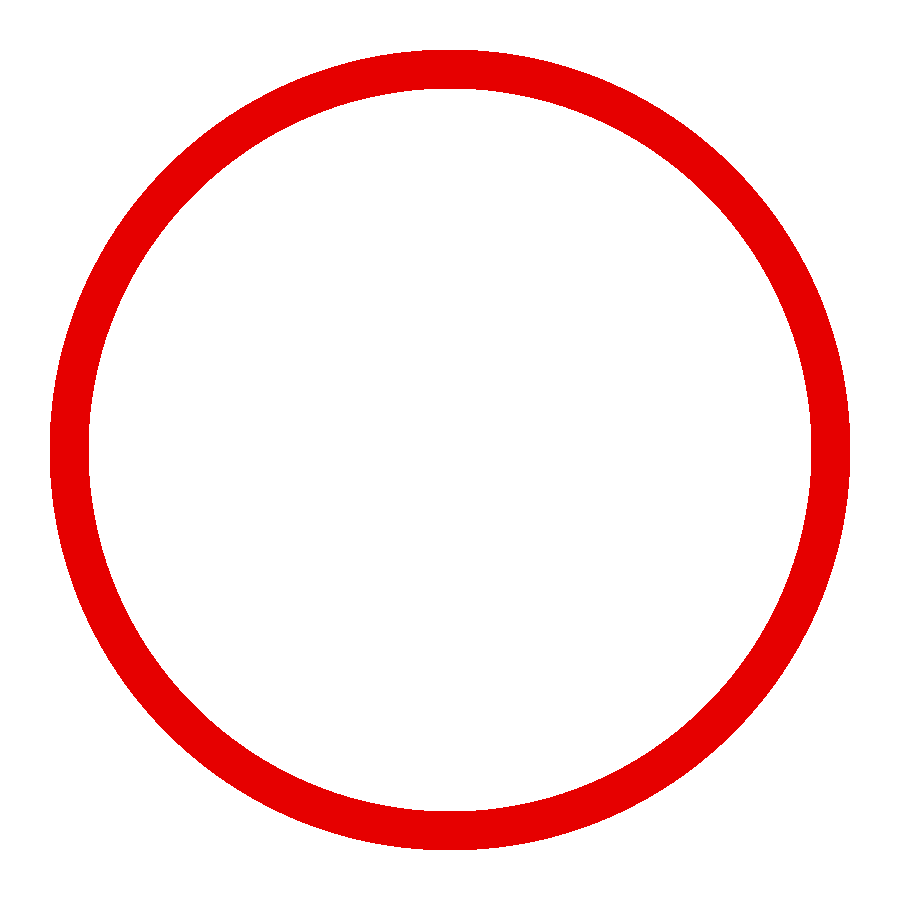
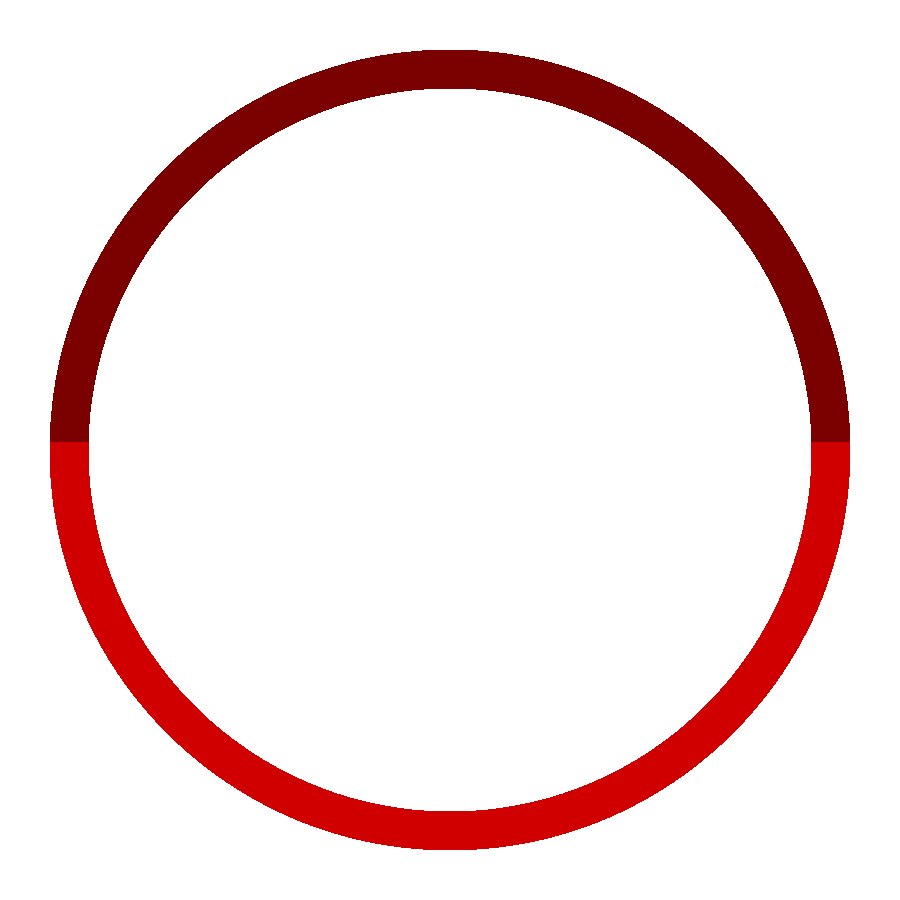
test

Changed region(s): [[0.0311, 0.0311, 0.9644, 0.4978]]

diff --git a/index.html b/index.html
@@ -27,11 +27,22 @@
             }
 
             #redcircle-x {
+                backface-visibility: hidden;
                 position: absolute;
                 background: url(redcircle.png) no-repeat;
                 background-size: 100% 100%;
                 width: 100%;
                 height: 100%;
+            }
+
+            #redcircle-backface {
+                backface-visibility: hidden;
+                position: absolute;
+                background: url(redcircle-backface.png) no-repeat;
+                background-size: 100% 100%;
+                width: 100%;
+                height: 100%;
+                transform: rotateY(180deg);
             }
 
             #data {
@@ -45,6 +56,7 @@
 
         </style>
         <script src="https://richtr.github.io/doe/doe.js"></script>
+
 <script src="https://code.jquery.com/jquery-2.2.4.min.js"
         integrity="sha256-BbhdlvQf/xTY9gja0Dq3HiwQF8LaCRTXxZKRutelT44="
         crossorigin="anonymous"></script>
@@ -57,35 +69,32 @@
                 <div id="redcircle-y">
                     <div id="redcircle-x">
                     </div>
+                    <div id="redcircle-backface">
+                    </div>
                 </div>
             </div>
             <div id="data">
-                <span>gamma</span>
+                <span></span>
             </div>
         </div>
         <script>
             var deg = 0,
                 innerDeg = 0;
-            window.setInterval(function () {
-                return;
-                deg++;
-                deg = deg % 360;
-                $("#bluecircle").css("transform", "rotateY(" + deg + "deg)");
-
-                $("#redcircle-x").css("transform", "rotateX(" + deg + "deg)");
-                $("#redcircle-y").css("transform", "rotateY(" + -deg + "deg)");
-            }, 20);
 
             function rotate(alpha, beta, gamma) {
-                var blueDeg = alpha,
+                var blueDeg = gamma,
+                    backfaceDeg,
                     redDeg = beta;
 
-                    /*
                 redDeg = redDeg + 90;
-                if (redDeg > 180) {
-                    redDeg = -(redDeg - 180)
+                if (redDeg > 90) {
+                    redDeg = -(redDeg - 90)
                 }
-               */
+
+                backfaceDeg = redDeg + 180;
+                if (backfaceDeg > 180) {
+                    backfaceDeg = -(backfaceDeg - 180)
+                }
 
                 //$("#data").text(beta);
 
@@ -94,18 +103,11 @@
 
 
                 $("#redcircle-x").css("transform", "rotateX(" + redDeg + "deg)");
+                $("#redcircle-backface").css("transform", "rotateX(" + backfaceDeg + "deg)");
             }
 
-            window.addEventListener("deviceorientation", function (e) {
-                var gamma = e.gamma, //tilt left-right
-                    beta = e.beta, //tilt front-back
-                    alpha = e.alpha; //compass direction
-
-                //rotate(alpha, beta, gamma);
-            });
-
             var deviceOrientation;
-            var promise = new FULLTILT.getDeviceOrientation({ 'type': 'world' });
+            var promise = new FULLTILT.getDeviceOrientation({ 'type': 'game' });
 
             promise
                 .then(function(controller) {
